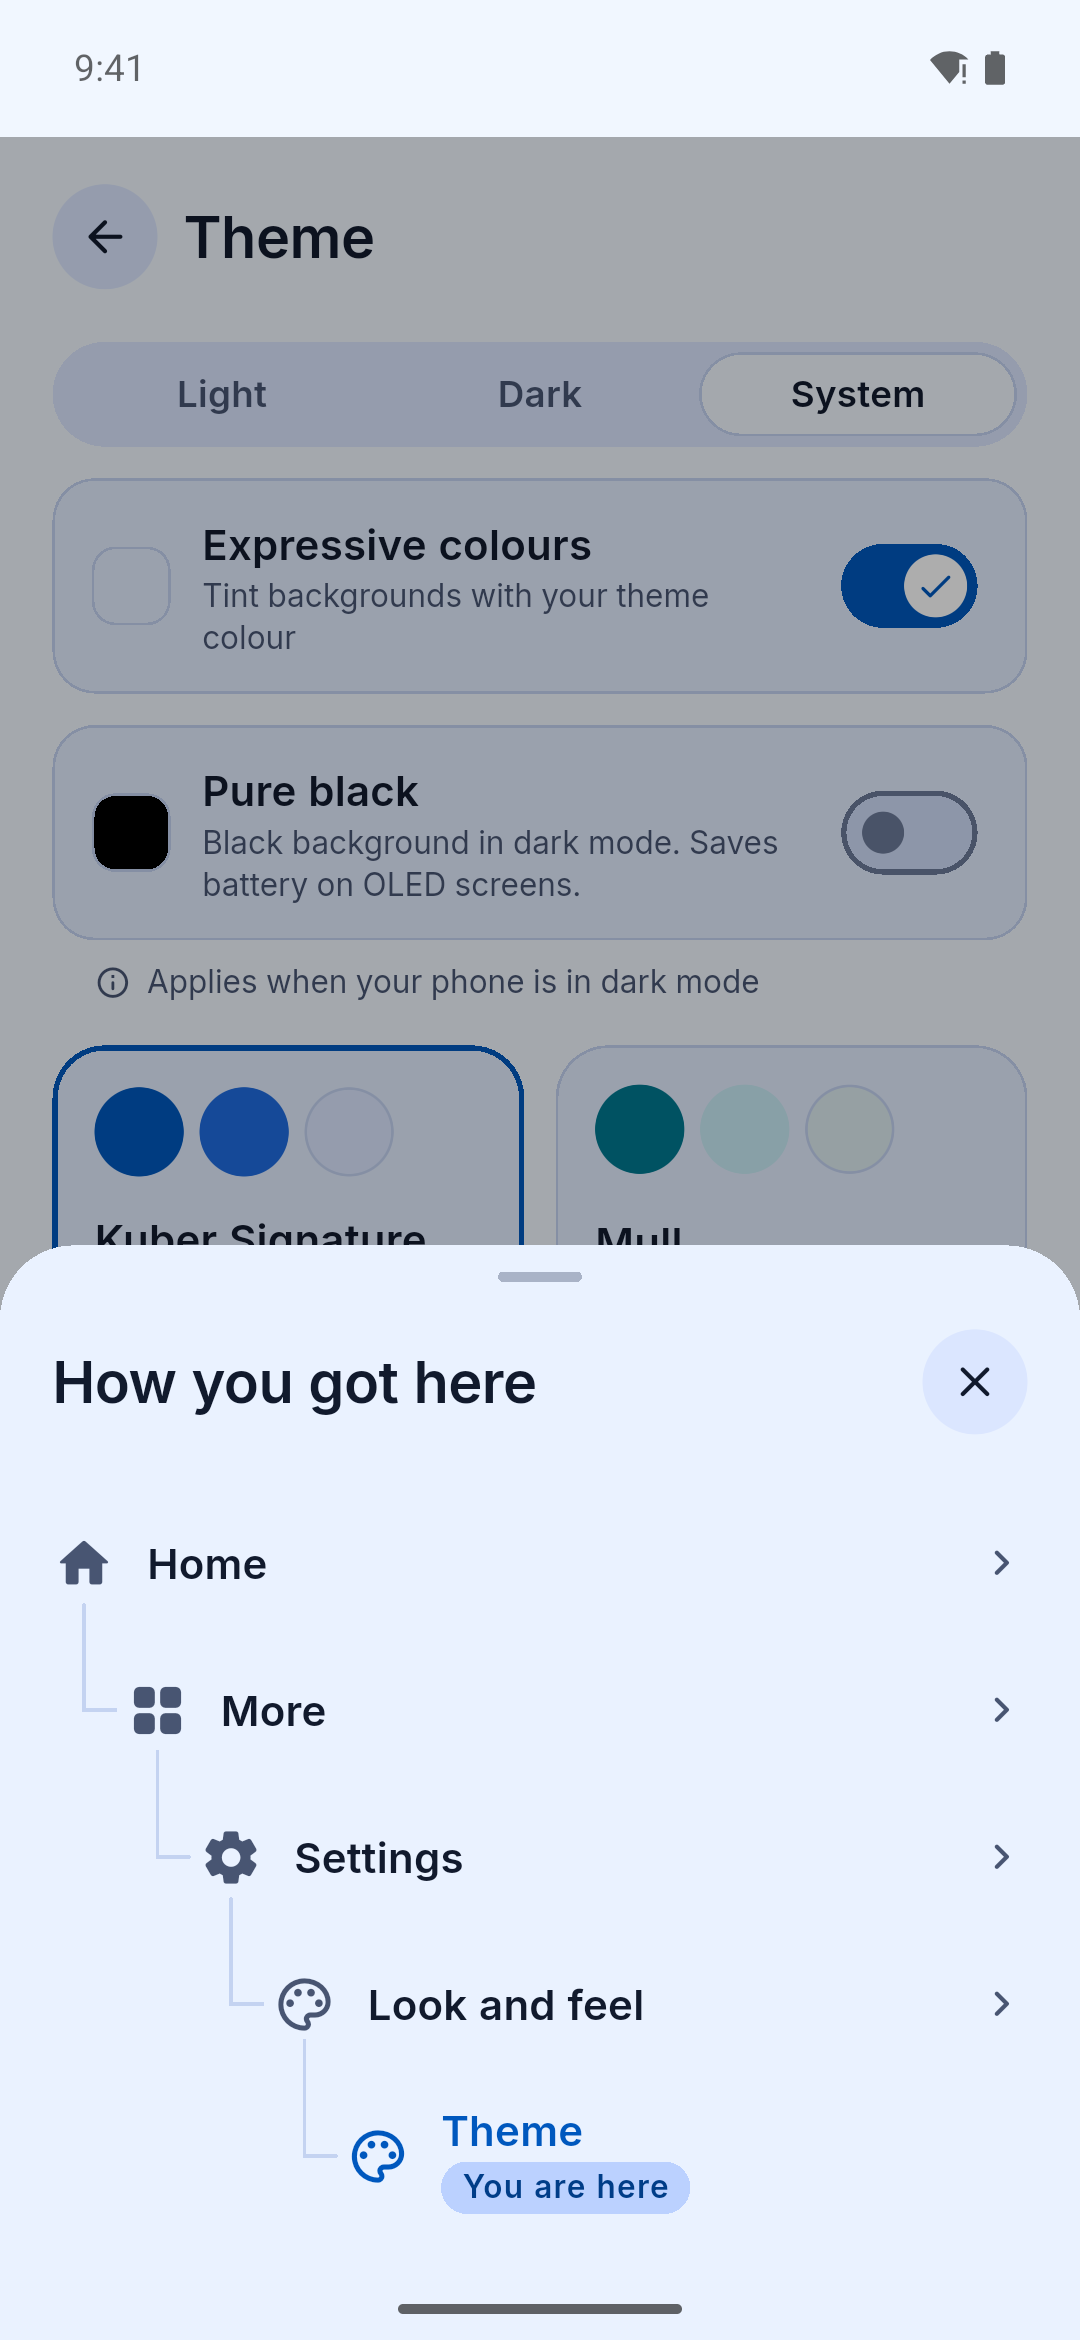
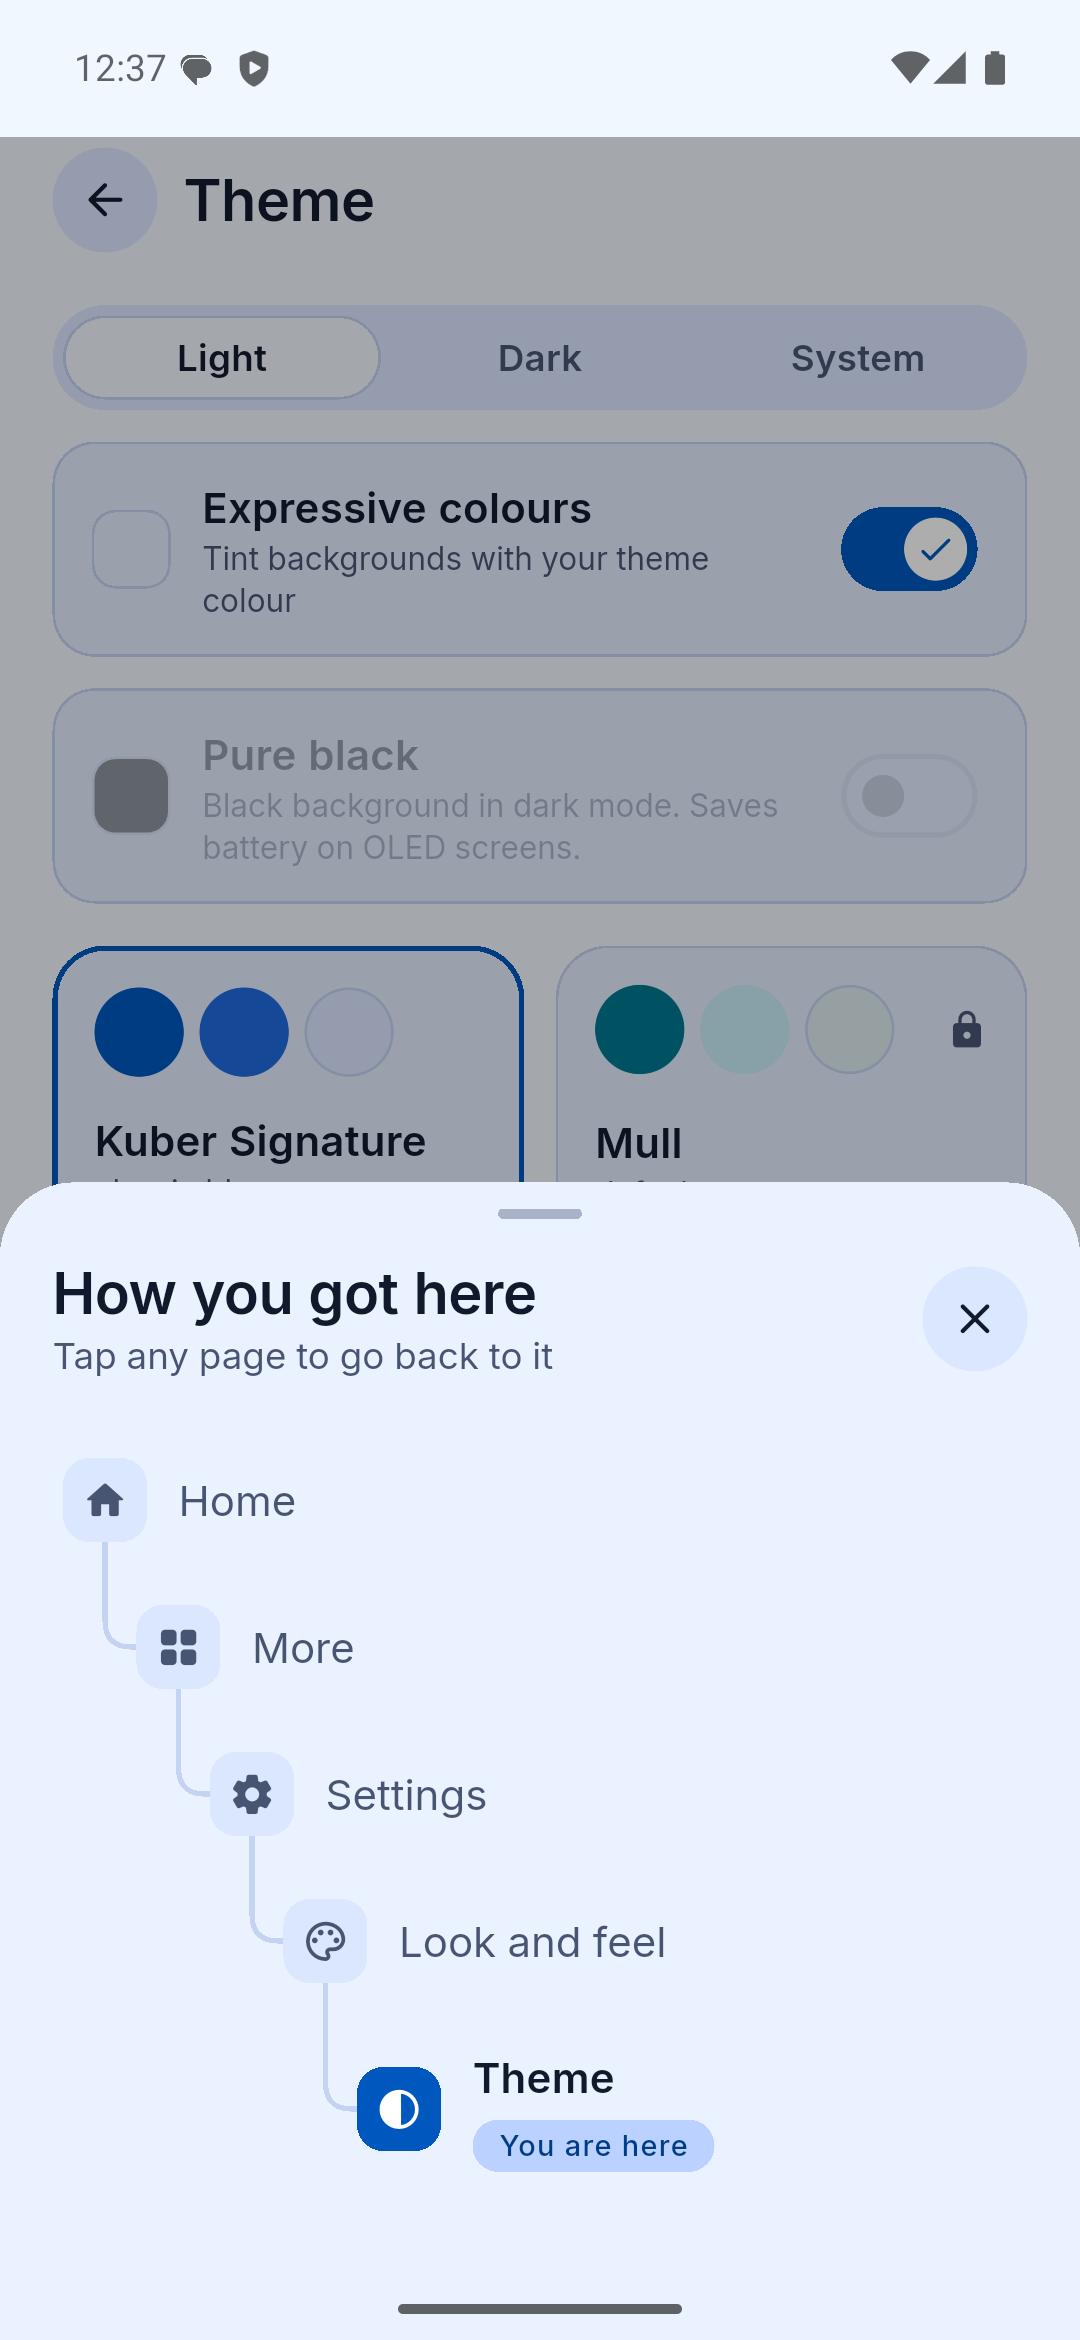
docs: new path sheet screenshot; More search scope on the shortcuts page

diff --git a/src/lib/screenshots.ts b/src/lib/screenshots.ts
@@ -67,7 +67,7 @@ const ALT: Record<string, string> = {
   'reminders/02-new-reminder': 'New reminder form with amount, date, time and repeat options',
   'shortcuts/01-quick-actions': 'Quick Actions sheet over Home with controls and shortcuts',
   'shortcuts/02-add-new-shortcuts': 'Add New sheet over Home with custom entry options',
-  'shortcuts/03-path-sheet': 'Path sheet showing Home, More, Settings, Look and feel and Theme, with the current page marked',
+  'shortcuts/03-path-sheet': 'Path sheet showing Home, More, Settings, Look and feel and Theme as a tree, with You are here on the current page',
   'sms-import/01-sms-inbox': 'Import from SMS listing detected bank transactions to review',
   'sms-import/02-otp-protection': 'Paste an SMS sheet that detects an OTP message and skips it',
   'sms-import/03-review-transaction': 'Review SMS sheet with the parsed amount, account, category and date',

diff --git a/content/features/shortcuts.md b/content/features/shortcuts.md
@@ -20,9 +20,10 @@ navigation:
     note: "shows all entry options like loans, notes, investments, cards, and recurring"
   - title: "Path sheet"
     steps: ["Any page with a back button", "Tap the page title, or long-press back"]
-    note: "shows how you got here, tap any earlier page to jump straight back"
+    note: "shows how you got here as a tree, tap any earlier page to jump straight back"
   - title: "In-app search"
     steps: ["More tab", "Search icon", "Type \"Shortcuts\""]
+    note: "finds settings, accounts, categories, tags, money plans, people, card names, note titles and tools by name"
 ---
 
 Speed up your daily workflow with three shortcut systems:
@@ -43,6 +44,6 @@ While a regular tap on the floating action button (+) opens standard transaction
 ### 3. Path Sheet (Tap a Page Title)
 Deep inside Settings or a loan? See how you got there and jump back in one tap, without pressing back again and again:
 
-- **See Your Path**: The sheet shows every page you came through, like Home, More, Settings, Look and feel, Theme, with the current page marked.
+- **See Your Path**: The sheet shows every page you came through as a tree, like Home, More, Settings, Look and feel, Theme, with "You are here" on the current page.
 - **Jump Straight Back**: Tap any earlier page to go right to it. The pages in between close.
 - **Two Ways to Open**: Tap the page title in the header, or long-press the back button.
